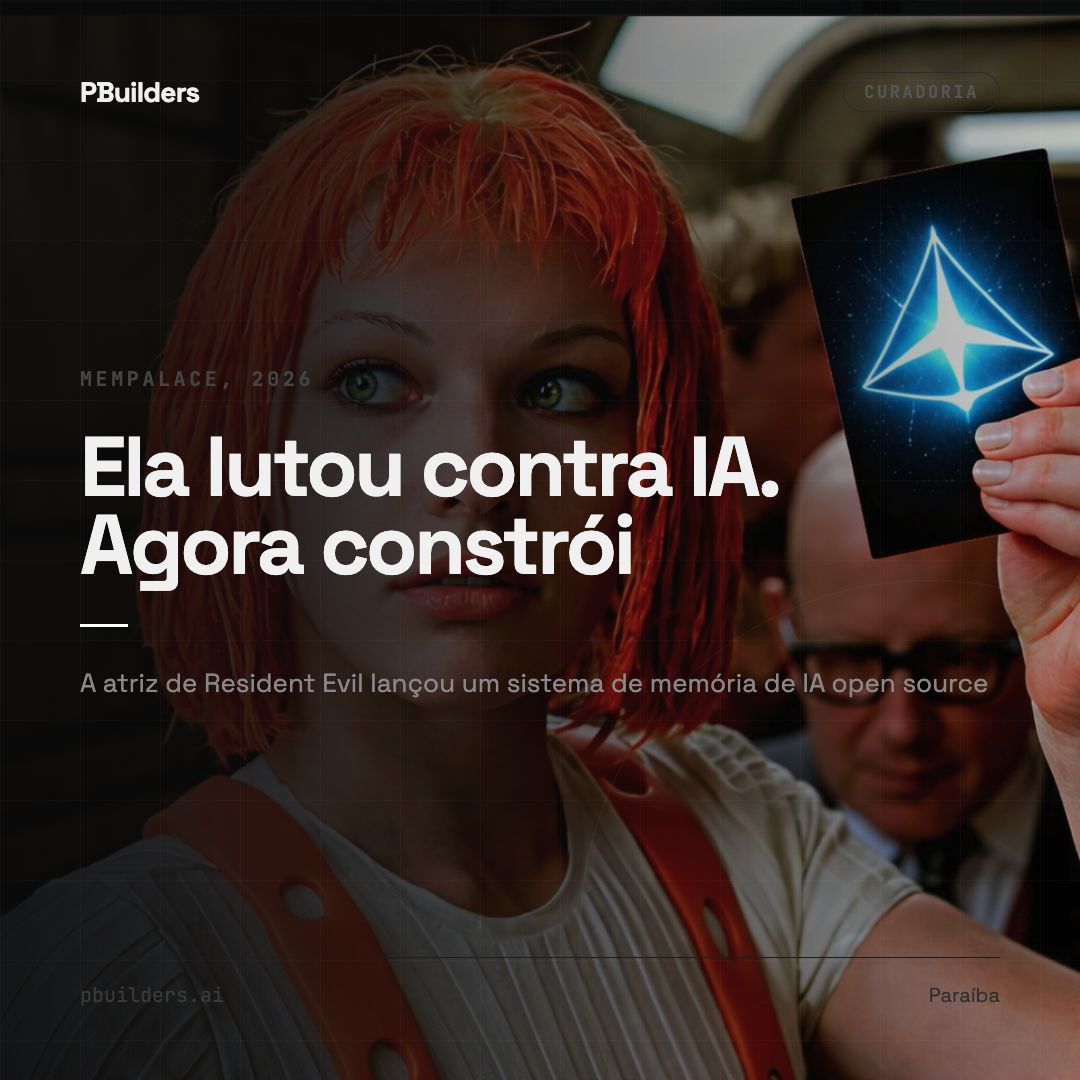
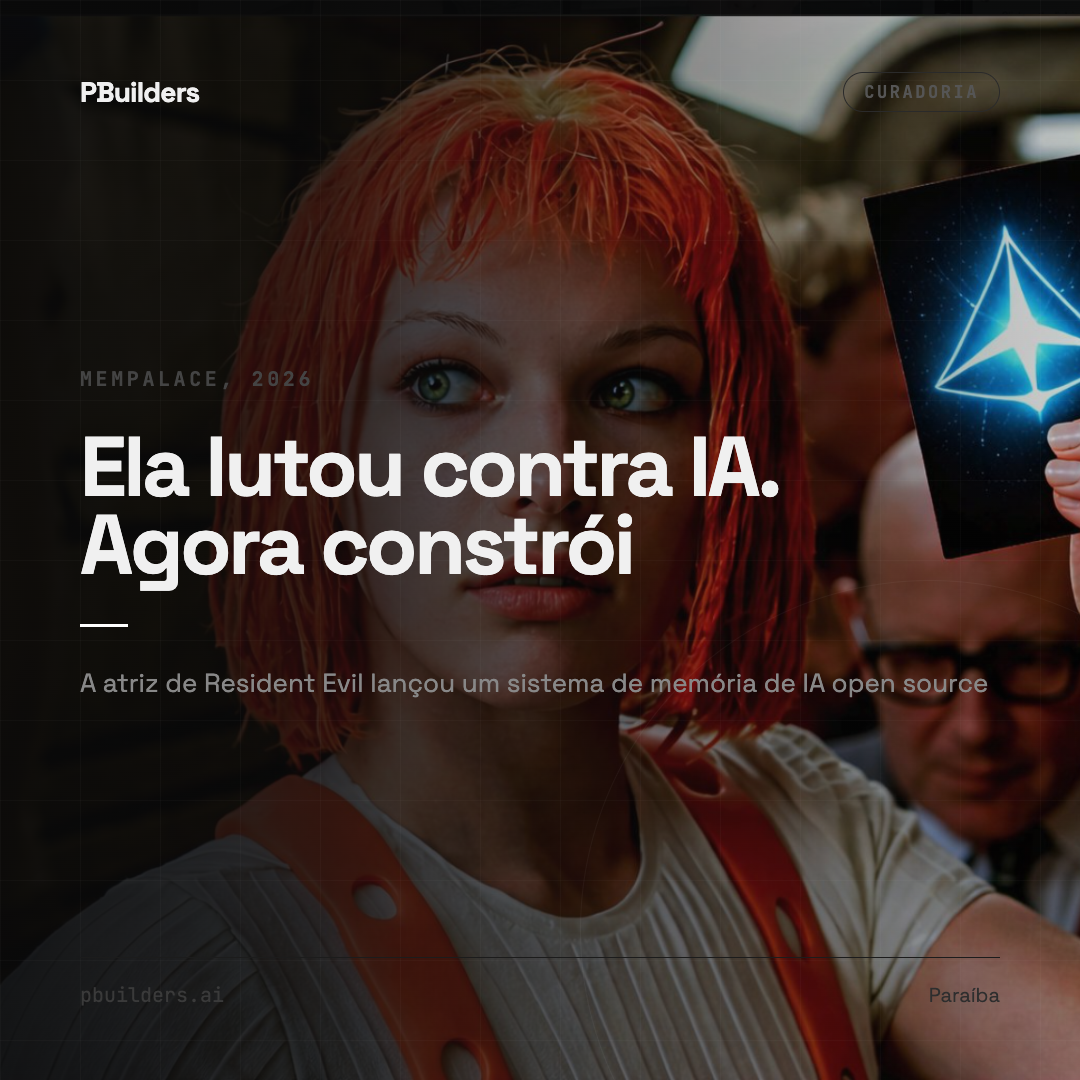
MemPalace: foto mais à esquerda (background-position 20%)

diff --git a/content/2026-04-08-mempalace/whatsapp-cover.html b/content/2026-04-08-mempalace/whatsapp-cover.html
@@ -27,7 +27,7 @@
           rgba(10,10,10,0.80) 30%,
           rgba(10,10,10,0.45) 60%,
           rgba(10,10,10,0.18) 100%),
-        url('milla.png') 35% center/cover no-repeat;
+        url('milla.png') 20% center/cover no-repeat;
       position: relative;
       overflow: hidden;
       display: flex;

diff --git a/content/2026-04-08-mempalace/instagram-carousel.html b/content/2026-04-08-mempalace/instagram-carousel.html
@@ -134,7 +134,7 @@
           rgba(10,10,10,0.85) 35%,
           rgba(10,10,10,0.50) 60%,
           rgba(10,10,10,0.20) 100%),
-        url('milla.png') 35% center/cover no-repeat;
+        url('milla.png') 20% center/cover no-repeat;
     }
 
     #s1 .eyebrow {
